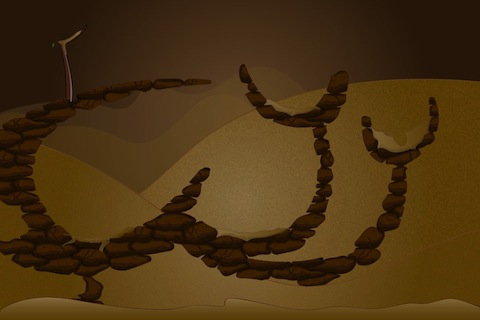
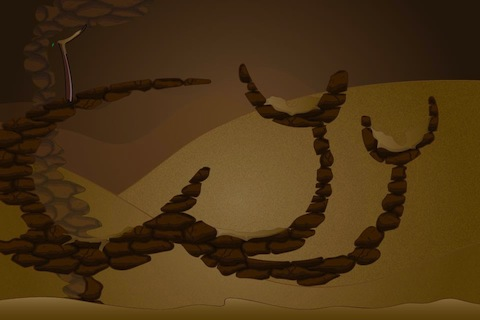
Updated D34 background. Added D34b Sand and renamed D34 Sand to D34a Sand. SandSystem supports more than one Sand in one level.

diff --git a/Beezle/Classes/System/SandSystem.m b/Beezle/Classes/System/SandSystem.m
@@ -13,6 +13,8 @@
 #import "CapturedComponent.h"
 #import "BeeType.h"
 #import "EntityUtil.h"
+#import "CGPointExtension.h"
+#import "TransformComponent.h"
 
 @interface SandSystem()
 
@@ -36,6 +38,7 @@
 {
 	[_capturedComponentMapper release];
 	[_sandComponentMapper release];
+	[_transformComponentMapper release];
 
 	[_notificationProcessor release];
 
@@ -46,6 +49,7 @@
 {
 	_capturedComponentMapper = [[ComponentMapper alloc] initWithEntityManager:[_world entityManager] componentClass:[CapturedComponent class]];
 	_sandComponentMapper = [[ComponentMapper alloc] initWithEntityManager:[_world entityManager] componentClass:[SandComponent class]];
+	_transformComponentMapper = [[ComponentMapper alloc] initWithEntityManager:[_world entityManager] componentClass:[TransformComponent class]];
 }
 
 -(void) activate
@@ -72,16 +76,29 @@
 	Entity *entity = [[notification userInfo] objectForKey:@"entity"];
 	if ([_capturedComponentMapper hasEntityComponent:entity])
 	{
+		TransformComponent *transformComponent = [_transformComponentMapper getComponentFor:entity];
 		CapturedComponent *capturedComponent = [_capturedComponentMapper getComponentFor:entity];
 		BeeType *beeType = [capturedComponent containedBeeType];
 		if (beeType == [BeeType MUMEE])
 		{
-			for (Entity *entity in [[_world entityManager] entities])
+			Entity *closestEntity = nil;
+			float closestDistance = -1.0f;
+			for (Entity *otherEntity in [[_world entityManager] entities])
 			{
-				if ([_sandComponentMapper hasEntityComponent:entity])
+				if ([_sandComponentMapper hasEntityComponent:otherEntity])
 				{
-					[EntityUtil destroyEntity:entity];
+					TransformComponent *otherTransformComponent = [_transformComponentMapper getComponentFor:otherEntity];
+					float distance = ccpDistance([transformComponent position], [otherTransformComponent position]);
+					if (closestDistance < 0.0f || distance < closestDistance)
+					{
+						closestEntity = otherEntity;
+						closestDistance = distance;
+					}
 				}
+			}
+			if (closestEntity != nil)
+			{
+				[EntityUtil destroyEntity:closestEntity];
 			}
 		}
 	}

diff --git a/Beezle/Classes/System/SandSystem.h b/Beezle/Classes/System/SandSystem.h
@@ -11,8 +11,10 @@
 @class NotificationProcessor;
 
 @interface SandSystem : EntityComponentSystem
-{	ComponentMapper *_capturedComponentMapper;
+{
+	ComponentMapper *_capturedComponentMapper;
 	ComponentMapper *_sandComponentMapper;
+	ComponentMapper *_transformComponentMapper;
 
 	NotificationProcessor *_notificationProcessor;
 }
